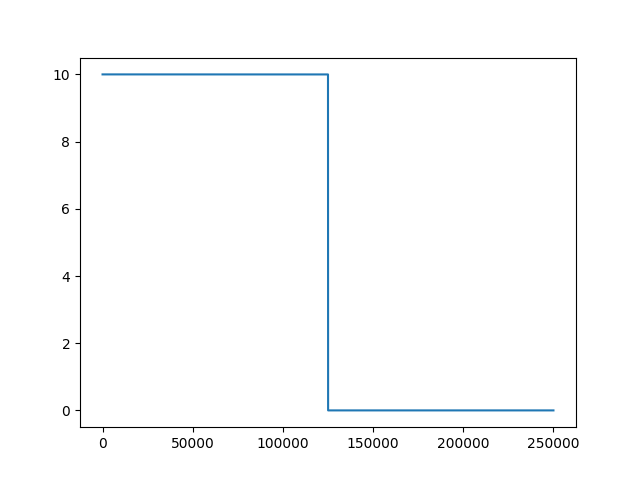
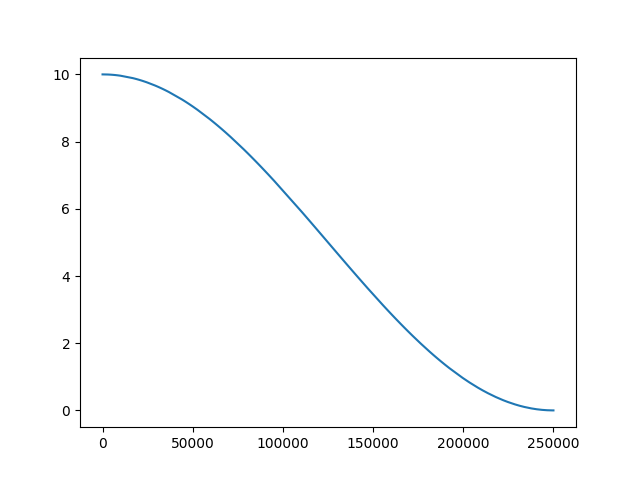
ann

diff --git a/Anealling/anealling.cpp b/Anealling/anealling.cpp
@@ -26,6 +26,13 @@ gnu-plot
 
 https://stackoverflow.com/questions/18176591/importerror-no-module-named-matplotlib-pyplot
 https://github.com/google/python-subprocess32/issues/38
+
+ sudo apt-get install -y python-subprocess32
+
+pip uninstall matplotlib
+python3 -m pip install matplotlib
+
+sudo apt-get install python3-tk
 **/
 
 #include <bits/stdc++.h>
@@ -146,7 +153,7 @@ double calculateTemperature3(int i, int n, double t0, double tn){
 }
 
 double calculateTemperature4(int i, int n, double t0, double tn){
-    double t = ((t0 - tn) / (1 + exp(3 * (i - (n / 2))))) + tn;
+    double t = ((t0 - tn) / (1 + exp(3 * (i - ((double)n / 2))))) + tn;
     cout << t << endl;
     return t;
 }
@@ -159,21 +166,27 @@ double calculateTemperature5(int i, int n, double t0, double tn){
 
 double calculateTemperature6(int i, int n, double t0, double tn){
     double t = ((double)1 / 2) * (t0 - tn) * (1 - tanh( ((double)(10 * i) / n) - 5  )) + tn;
+    cout << t << endl;
     return t;
 }
 
 double calculateTemperature7(int i, int n, double t0, double tn){
-    double t;
+    double t = ((t0 - tn) / cosh((double)(10 * i) / n)) + tn;
+    cout << t << endl;
     return t;
 }
 
 double calculateTemperature8(int i, int n, double t0, double tn){
-    double t;
+    double a = ((double)1 / n) * log((double) t0 / tn);
+    double t = t0 * exp(-a * i);
+    cout << t << endl;
     return t;
 }
 
 double calculateTemperature9(int i, int n, double t0, double tn){
-    double t;
+    double a = ((double)1 / pow(n, 2)) * log((double) t0 / tn);
+    double t = t0 * exp(-a * pow(i, 2));
+    cout << t << endl;
     return t;
 }
 

diff --git a/Anealling/plot.py b/Anealling/plot.py
@@ -1,3 +1,5 @@
+import matplotlib
+matplotlib.use('Agg')
 import matplotlib.pyplot as plt
 
 array = []
@@ -7,4 +9,4 @@ with open('out') as f:
         array.append([float(line)])
 
 plt.plot(array)
-plt.show()
+plt.savefig('t4.png')
